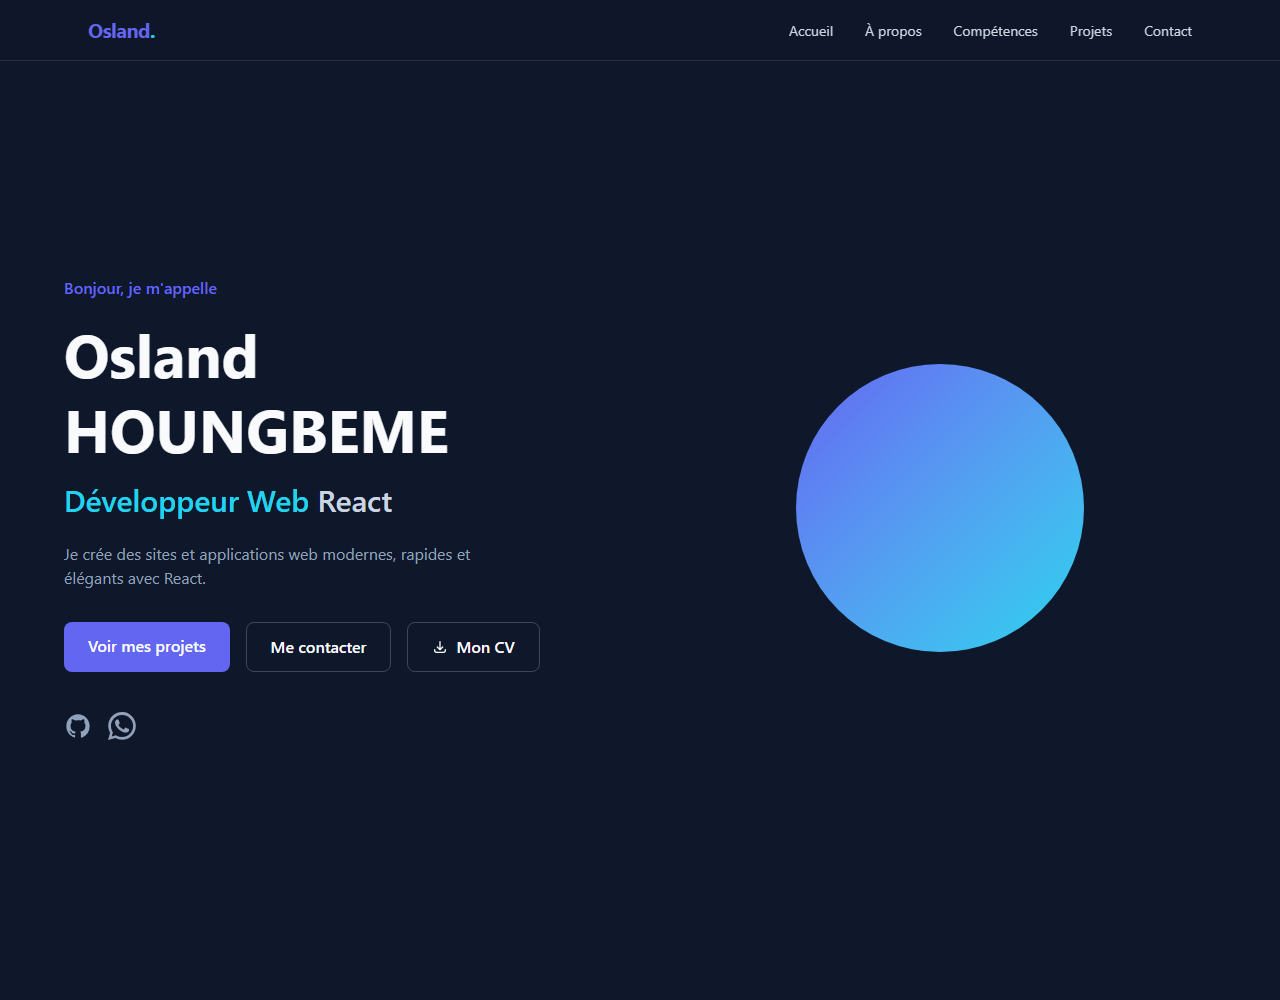
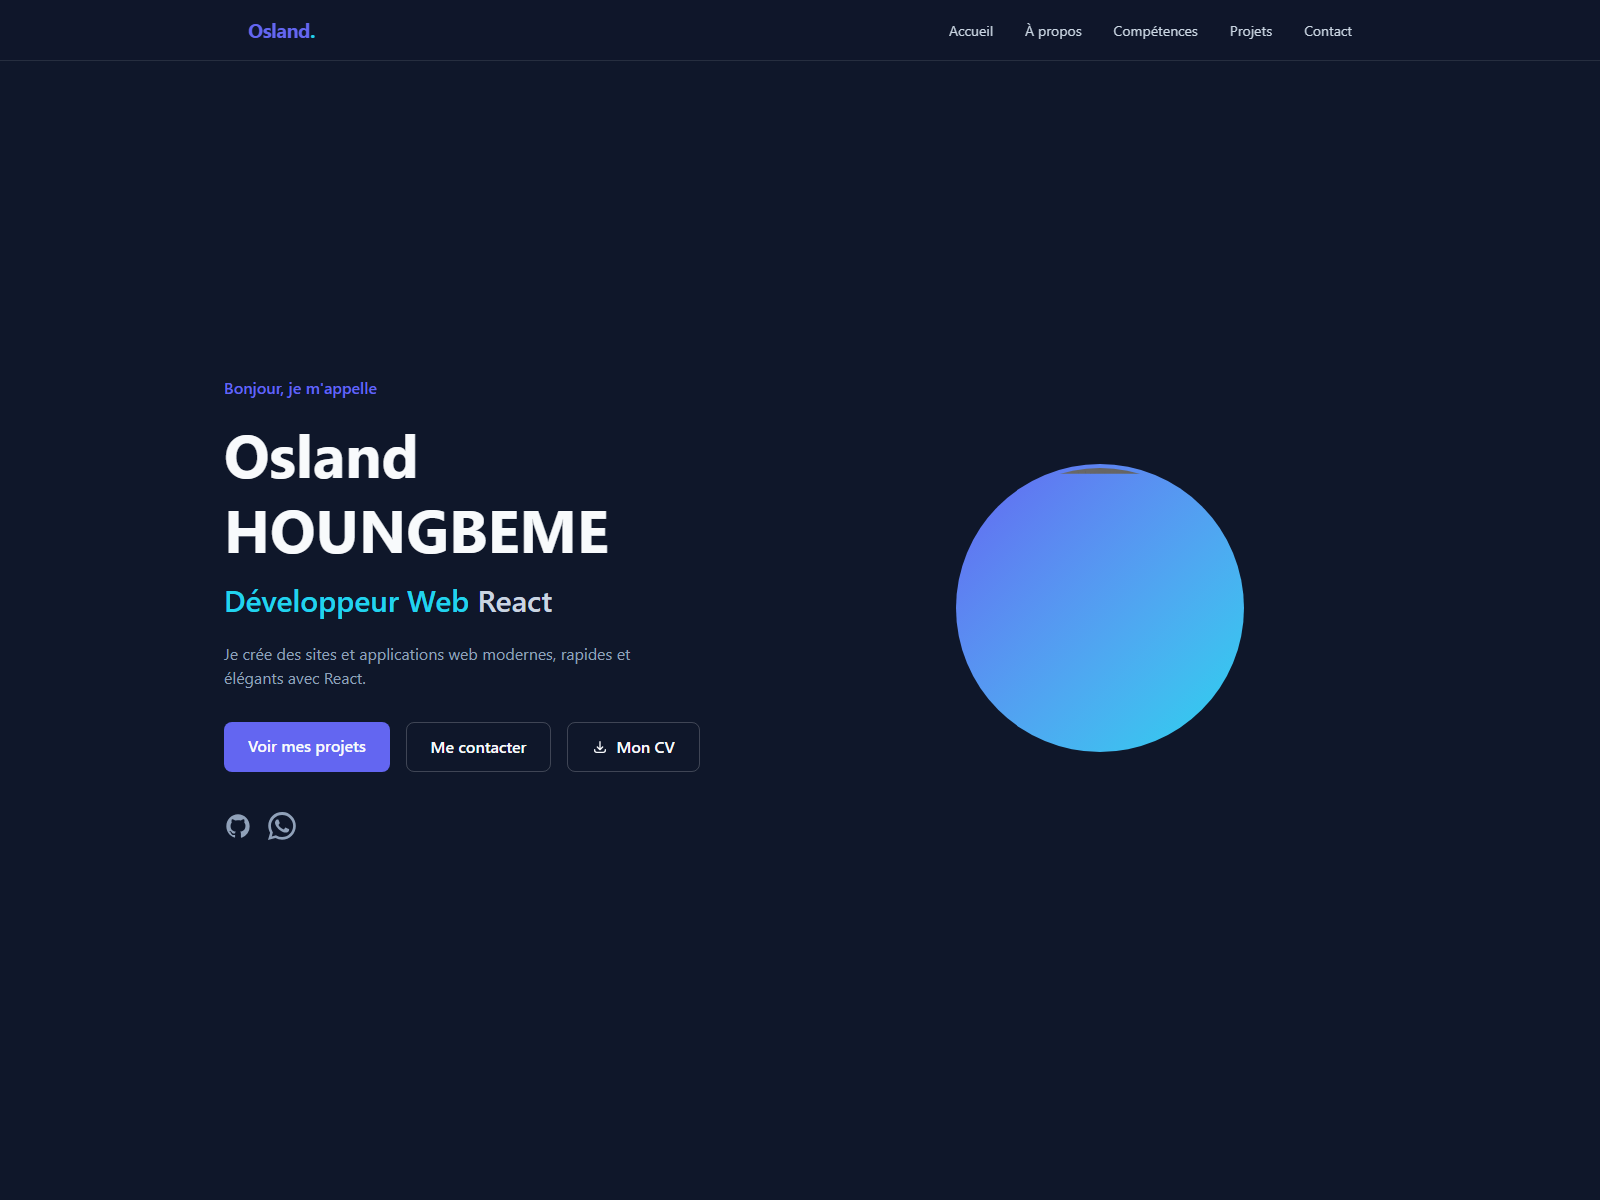
feat: mise à jour README avec aperçu portfolio + images

diff --git a/README.md b/README.md
@@ -1,7 +1,7 @@
 # Portfolio — Osland HOUNGBEME
 
 <p align="center">
-  <img src="public/portfolio-preview.png" alt="Aperçu du portfolio Osland HOUNGBEME" width="100%" />
+  <img src="OXI.png" alt="Aperçu du portfolio Osland HOUNGBEME" width="100%" />
 </p>
 
 Bienvenue sur le dépôt de mon portfolio personnel. Il s'agit d'une application web moderne, rapide et entièrement responsive, conçue pour présenter mon profil, mes compétences et mes projets sur tout type d'écran (Android, iPhone, tablette, ordinateur).
